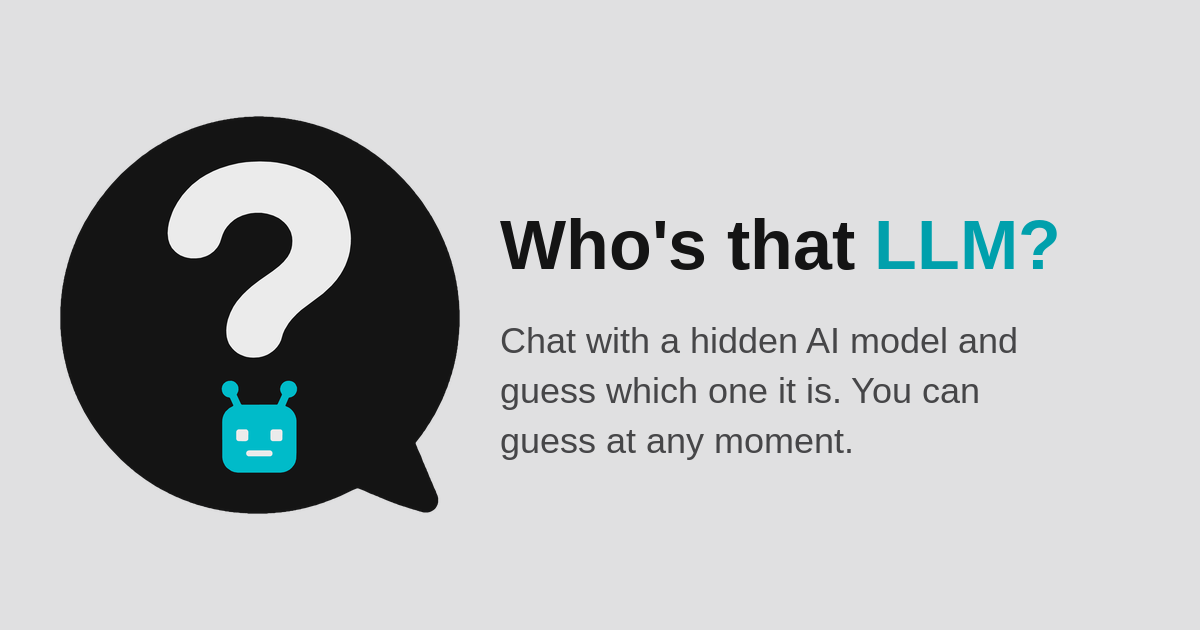
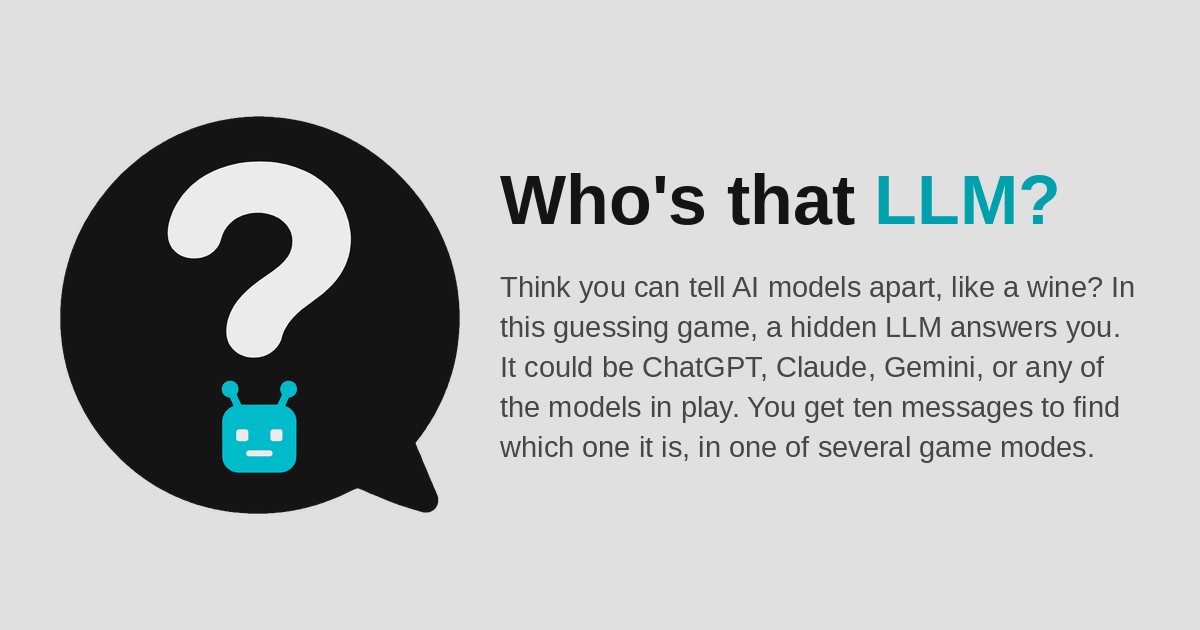
[UPD] social description and card use the hero text without the live counts

Changed region(s): [[0.4008, 0.2714, 0.9558, 0.7238]]

diff --git a/lib/site.ts b/lib/site.ts
@@ -30,9 +30,9 @@ export function siteSocialTitleHtml(name = siteName): string {
 /** 1200x630 card: logo, name, and the pitch. */
 export const socialImage = { url: "/brand/og-card.png", width: 1200, height: 630 };
 
-/** The one-paragraph pitch: the page description and the social card text. */
+/** The hero paragraph without the live model and company counts: the page description and the social card text. */
 export const homeDescription =
-  "A guessing game for AI fans. Chat with a hidden LLM for ten messages and guess which model it is. Daily rounds, several game modes, and a public leaderboard.";
+  "Think you can tell AI models apart, like a wine? In this guessing game, a hidden LLM answers you. It could be ChatGPT, Claude, Gemini, or any of the models in play. You get ten messages to find which one it is, in one of several game modes.";
 
 /**
  * Description for search, Open Graph, and Twitter cards. Next does not copy `description` into og:description,
